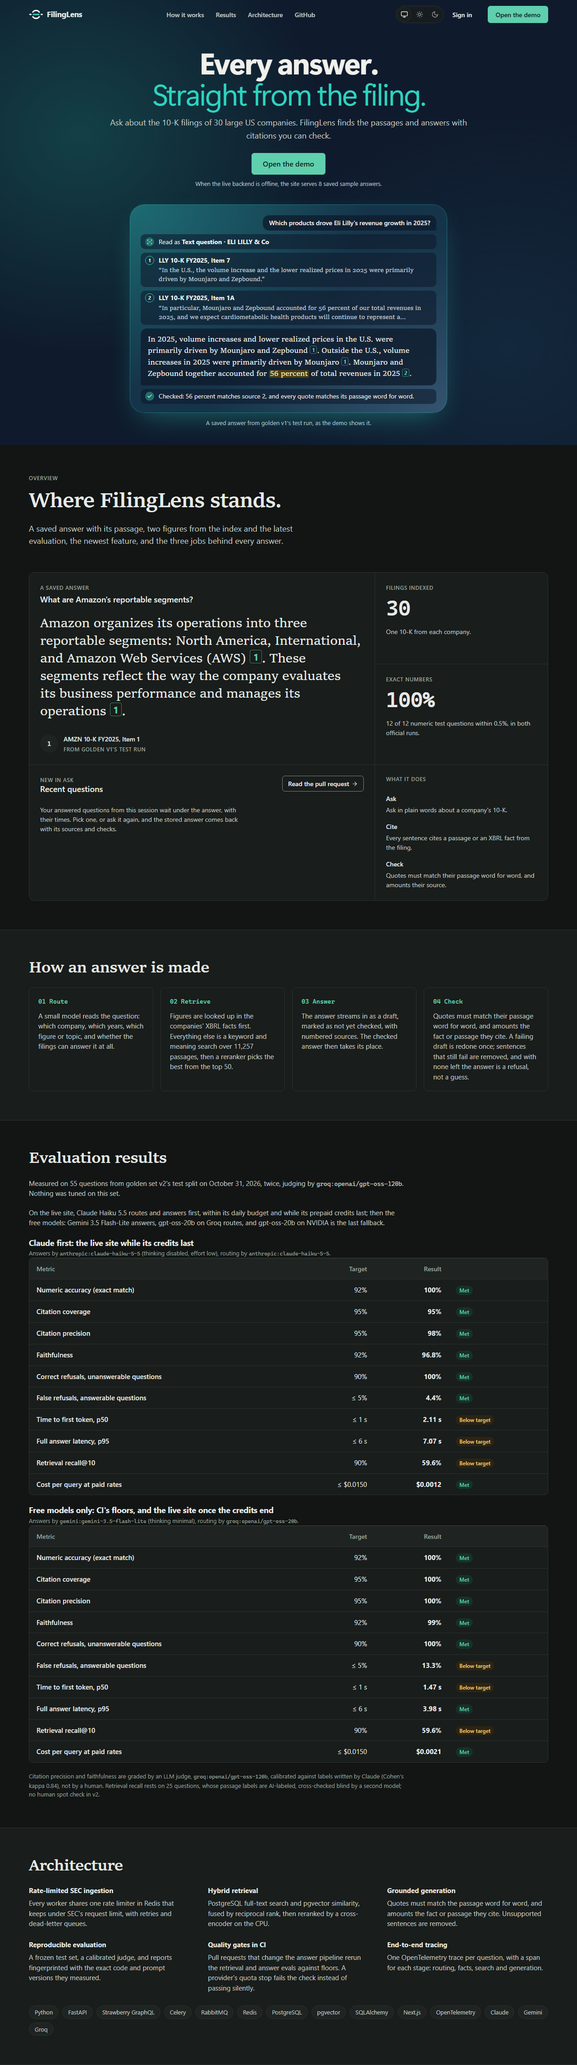
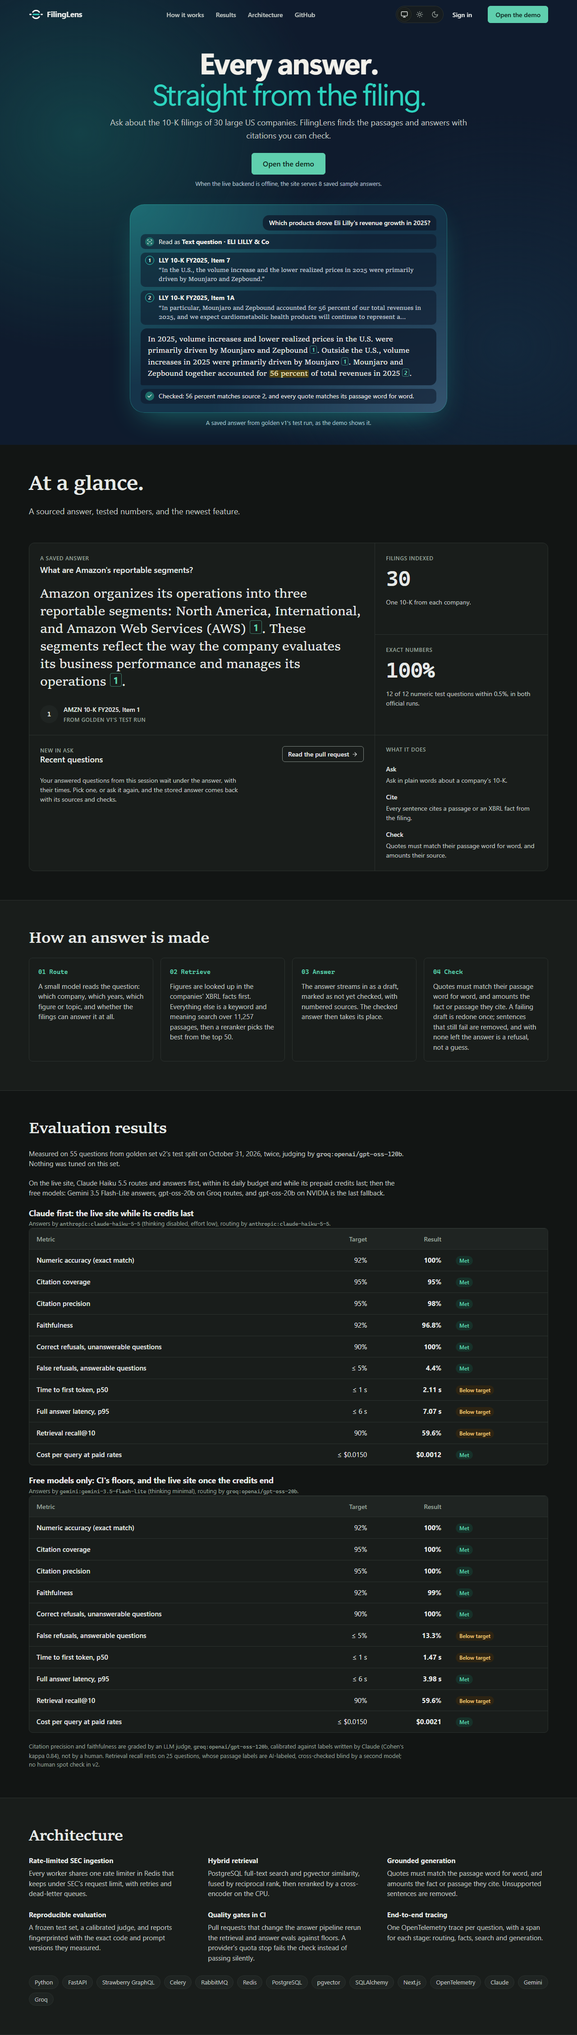
Answers: inline sources list no longer shows; overview: At a glance (#46)

diff --git a/web/e2e/landing.spec.ts b/web/e2e/landing.spec.ts
@@ -166,7 +166,12 @@ test("the hero's scope and story are the demo snapshot's: x12's question, passag
 test("the overview: another saved answer and its passage, two figures from the snapshot and both reports, #42, and the three jobs", async ({ page }) => {
   await page.goto("/");
   const overview = page.locator("section#overview");
-  await expect(overview.getByRole("heading", { level: 2 })).toHaveText("Where FilingLens stands.");
+  await expect(overview.getByRole("heading", { level: 2 })).toHaveText("At a glance.");
+  // The headline and the line under it, with no label above them.
+  await expect(overview.locator(".overview-head > *")).toHaveText([
+    "At a glance.",
+    "A sourced answer, tested numbers, and the newest feature.",
+  ]);
   expect(saved.filing).not.toBe(story.filing);
   await expect(overview).toContainText(saved.question);
   await expect(overview.locator("blockquote .answer-text")).toHaveText(saved.answer.answer);

diff --git a/web/components/overview.tsx b/web/components/overview.tsx
@@ -34,12 +34,8 @@ export function Overview() {
   return (
     <section id="overview" className="overview" aria-labelledby="overview-title">
       <div className="overview-head">
-        <p className="overview-label">Overview</p>
-        <h2 id="overview-title">Where FilingLens stands.</h2>
-        <p>
-          A saved answer with its passage, two figures from the index and the latest evaluation, the newest feature,
-          and the three jobs behind every answer.
-        </p>
+        <h2 id="overview-title">At a glance.</h2>
+        <p>A sourced answer, tested numbers, and the newest feature.</p>
       </div>
 
       <div className="overview-grid">

diff --git a/packages/llm/tests/test_answer.py b/packages/llm/tests/test_answer.py
@@ -138,6 +138,74 @@ def test_a_calculation_is_cited_like_a_fact_and_holds_the_difference() -> None:
     assert ("$25.1 billion", "K1") in [(f.text, f.alias) for f in checked.figures]
 
 
+LOWER = (
+    "Fiscal 2024: 14,405,000,000 USD. Fiscal 2025: 12,056,000,000 USD. Fiscal 2025 is lower by"
+    " 2,349,000,000 USD, 16.31% less than fiscal 2024."
+)
+UNITEDHEALTH = {  # c13 (dev): net income attributable to the parent, fiscal 2025 against 2024
+    "F1": Source("F1", None, "540257", "2025", "12,056,000,000 USD", Decimal(12_056_000_000), "u"),
+    "F2": Source("F2", None, "540203", "2024", "14,405,000,000 USD", Decimal(14_405_000_000), "u"),
+    "K1": Source(
+        "K1", None, None, "Calculated by FilingLens from F2 and F1", LOWER, None, "u",
+        Calculation(("F2", "F1"), Decimal(-2_349_000_000), Decimal("-16.31"), over_time=True),
+    ),
+}  # fmt: skip
+ANSWER = (
+    "UnitedHealth Group's net income attributable to the parent was $12.1 billion in fiscal 2025,"
+    " compared with $14.4 billion in fiscal 2024, a decrease of $2.3 billion or 16.31%"
+)
+LIST = (
+    'Sources: [F1] "12,056,000,000 USD"; [F2] "14,405,000,000 USD"; [K1] "Fiscal 2025 is lower by'
+    ' 2,349,000,000 USD, 16.31% less than fiscal 2024."'
+)
+INLINE = f"{ANSWER} [F1][F2][K1]. {LIST}"  # E5's draft of c13, as Haiku wrote it
+DRAFTS = pytest.mark.parametrize(
+    "draft", [INLINE, f"{ANSWER} [F1][F2][K1].\n{LIST}"], ids=["after the answer", "own line"]
+)
+
+
+@DRAFTS
+def test_a_sources_block_written_inline_is_read_as_the_sources_block(draft: str) -> None:
+    """c13 (dev, E5): the list stayed in the answer as one more sentence, and its amounts passed."""
+    reply = read_reply(draft)
+    assert reply.text == f"{ANSWER} [F1][F2][K1]."
+    assert reply.quotes == {
+        "F1": ["12,056,000,000 USD"],
+        "F2": ["14,405,000,000 USD"],
+        "K1": ["Fiscal 2025 is lower by 2,349,000,000 USD, 16.31% less than fiscal 2024."],
+    }
+    checked = check(reply, UNITEDHEALTH)
+    assert checked.text == f"{ANSWER} [1][2][3]."
+    assert (checked.problems, checked.removed) == ([], 0)
+
+
+@pytest.mark.parametrize(
+    "sentence",
+    [
+        "Sources: products and services, as the filing lists them [C1].",  # no source follows
+        "Services had three such sources: [C1].",  # not where a sentence starts
+    ],
+)
+def test_the_word_sources_in_the_answer_is_no_heading(sentence: str) -> None:
+    reply = read_reply(
+        f"Net sales were $416.2 billion [F1]. {sentence}\n\nSources:\n"
+        '[F1] "416,161,000,000 USD"\n[C1] "Services net sales increased"\n'
+    )
+    assert reply.text == f"Net sales were $416.2 billion [F1]. {sentence}"
+    assert reply.quotes == {"F1": ["416,161,000,000 USD"], "C1": ["Services net sales increased"]}
+
+
+@DRAFTS
+@pytest.mark.parametrize("size", range(1, 40))
+def test_a_stream_never_shows_a_sources_block_written_inline(draft: str, size: int) -> None:
+    """n13 (dev ci, 2026-10-16) at a few characters a chunk: a reply ending in "Sources:" read as
+    the heading, then not once its source followed, so the stream showed text twice."""
+    visible = Visible()
+    shown = [visible.feed(draft[start : start + size]) for start in range(0, len(draft), size)]
+    shown.append(visible.feed(final=True))
+    assert "".join(shown) == f"{ANSWER} [1][2][3]."
+
+
 def test_each_amount_a_kept_sentence_states_comes_with_the_source_that_holds_it() -> None:
     checked = check(read_reply(REPLY), SOURCES)
     assert [(f.text, f.alias, f.number) for f in checked.figures] == [

diff --git a/packages/llm/src/filinglens_llm/answer.py b/packages/llm/src/filinglens_llm/answer.py
@@ -30,7 +30,13 @@ from filinglens_llm.validate import (
 
 INSUFFICIENT = "INSUFFICIENT_EVIDENCE"
 MAX_TOKENS = 1024  # answers and regenerations: short, fast, cheap, no runaway (docs/context.md)
-SOURCES_HEADING = re.compile(r"^[ \t*#_]*sources[ \t*_]*:?[ \t*_]*$", re.IGNORECASE | re.MULTILINE)
+# The heading alone on its line, or with its first source after it (c13: "[K1]. Sources: [F1]").
+SOURCES_HEADING = re.compile(
+    r"^[ \t*#_]*sources[ \t*_]*:?[ \t*_]*$"
+    r"|(?:^|(?<=[.!?]))[ \t*_]*sources[ \t*_]*:[ \t*_]*(?=\[\s*[CFK]\d+\s*\])",
+    re.IGNORECASE | re.MULTILINE,
+)
+ENTRY_BREAK = re.compile(r"[ \t]*[;,][ \t]*(?=\[\s*[CFK]\d+\s*\])")  # sources on one line
 SOURCE_LINE = re.compile(
     r"^[ \t*-]*\[\s*(?P<alias>[CFK]\d+)\s*\][ \t:|\-]*(?P<quote>.*?)[ \t]*$", re.MULTILINE
 )
@@ -87,8 +93,9 @@ class Reply:
 def read_reply(reply: str) -> Reply:
     heading = SOURCES_HEADING.search(reply)
     text = (reply[: heading.start()] if heading else reply).strip()
+    block = ENTRY_BREAK.sub("\n", reply[heading.end() :]) if heading else ""
     quotes: dict[str, list[str]] = {}
-    for line in SOURCE_LINE.finditer(reply[heading.end() :] if heading else ""):
+    for line in SOURCE_LINE.finditer(block):
         quote = OWN_MARKER.sub("", line["quote"].strip())
         quotes.setdefault(line["alias"], []).append(quote.strip().strip(QUOTE_MARKS))
     return Reply(text, quotes, text.startswith(INSUFFICIENT))
@@ -117,7 +124,8 @@ class Visible:
     def feed(self, text: str = "", *, final: bool = False) -> str:
         self._reply += text
         heading = SOURCES_HEADING.search(self._reply)
-        if heading is not None:
+        # One that ends the text so far may go on as words or a source on its line (n13).
+        if heading is not None and (final or heading.end() < len(self._reply)):
             end = heading.start()
         else:
             end = len(self._reply) if final else max(0, len(self._reply) - HOLD)

diff --git a/docs/activity-log.md b/docs/activity-log.md
@@ -15,6 +15,39 @@ Chronological record of significant development activity, newest first. Skip tri
 
 ## Entries
 
+### 2026-11-02: Inline Sources blocks read as the Sources block, and the overview's new head (uncommitted, branch `inline-sources`)
+
+- Changes, on `inline-sources` from main at 99992d9 (#45 merged); the user asked for one PR, tests first:
+  - **Inline Sources** (`packages/llm/src/filinglens_llm/answer.py`), todo.md's weakness from E5. c13's draft wrote `... [F1][F2][K1]. Sources: [F1] "..."; [F2] "..."; [K1] "..."`. `SOURCES_HEADING` wanted the heading alone on its line, so the list stayed in the answer as one more sentence, and its amounts passed validation.
+    - The user allowed strip or refuse. It is now read as the Sources block (memory.md, why): `SOURCES_HEADING` also takes a heading whose first source follows on its line, after a sentence's end or at a line's start, and `ENTRY_BREAK` splits sources on one line at ";" or "," before a source id. The list leaves the answer, its quotes count, and the stream stops before it.
+    - `Visible` now takes a heading that ends the text received so far as one only once its line goes on (found by the replay, below).
+  - **Overview** (`web/components/overview.tsx`): the head is the user's final copy, "At a glance." over "A sourced answer, tested numbers, and the newest feature."; the "Overview" label is gone. Their earlier draft, "Proof, not promises." over "A real answer with its source, and the numbers behind it.", was built first (Events).
+- Files: `packages/llm/src/filinglens_llm/answer.py`, `packages/llm/tests/test_answer.py`, `web/components/overview.tsx`, `web/e2e/landing.spec.ts`, `docs/screenshots/ui/landing-{light,dark,phone}.png`, docs (context, design, memory, todo).
+- Validation:
+  - **Tests first, Python.** c13's draft as Haiku wrote it, and the same list starting its own line: `read_reply` keeps the answer and reads the three quotes, `check` keeps the answer without the list and finds no problem, and the stream at 1 to 39 characters a chunk shows the answer only.
+    - Red: 41 failed (the list stayed in the text and in the stream). Green after the pattern change.
+    - The own-line draft then joined the stream test: red at 1 to 5 characters a chunk (5 failed), green after the `Visible` change.
+    - Two rows the heading must leave alone, at its edges: "Sources: products and services, as the filing lists them [C1]." (no source follows) and "Services had three such sources: [C1]." (not where a sentence starts).
+    - Four mutants of the new patterns (no sentence-start guard, no source after the colon, no line-start form, entries not split) each fail a test.
+  - **Tests first, web.** The overview test expects the new head and no label: red on a build of the old page (1 failed, 11 passed), then 12 passed.
+  - **Offline replay** (scratch script, no model call): main's `read_reply` and stream (2, 7 and 64 characters a chunk) against this branch's, over every answer draft the reports list: 875, all in the local reply cache (440 Haiku, 401 Gemini, 34 NVIDIA).
+    - 3 changed, each only losing its inline list: c13 and n14 from E5 (n14: `... $189.0 billion [F1]. Sources: [F1] "189,031,000,000 USD"`), and n13 from the 2026-10-16 dev ci run's NVIDIA fallback (`... fiscal 2025. [F1]`, then `Sources: [F1] “121,939,000,000 USD”` on its own line). Their saved answers showed the list ("Sources: [1] ..."); validation finds no problem in them before or after.
+    - The other 872 keep their text, quotes and stream. No Gemini draft changes.
+    - A second check: on this branch every draft's stream joins up to its reply text at 1 to 39 characters a chunk. On main, n13's did not, at 6 sizes.
+  - Python: `make lint` clean, `make typecheck` 0 errors, `make test` 703 passed (621 before; 82 new cases).
+  - Web: `npm run typecheck` clean, `npm test` 114, `npm run build`, `npx playwright test` 107 passed (bundled shell). `npx playwright test -c playwright.screens.config.ts -g landing` rewrote the three landing shots (4 passed, axe included); no other shot changed.
+- Eval check (memory.md, the 2026-10-18 rule): `packages/llm/src` is an eval input, so CI's eval runs. No prompt changed, so every router and answer key is main's. A regeneration's key holds the problems, which change only for a draft with an inline list, and none of the local cache's 401 Gemini drafts has one. Expected: no model call. CI's own cache cannot be read here; a CI-only draft with an inline list whose problems change would take one Gemini regeneration (free tier).
+- Events, in order:
+  - GateGuard refused the session's first Bash call and the first touch of each file, the two scratch scripts included, until their facts were stated; each passed on retry.
+  - `python` is not on Git Bash's PATH ("Python was not found"); `uv run python` worked.
+  - The replay found n14 and n13 besides c13, and the stream fault. On main, a reply ending in "Sources:" was read as the heading, then not once its source followed on that line, so the stream showed "...2025. [1]5. [1]" (n13, 7 characters a chunk). The pattern change left it at 1 to 3 characters a chunk; the `Visible` change, test first, fixed it.
+  - The replay's second run sent its output to a scratchpad file through a shell redirect, against AGENTS.md's rule on writing files; later runs printed to the terminal.
+  - The user then replaced the draft head with the final copy. The overview test changed first, red on the draft's build (1 failed, 11 passed), then the component. After it: `npm run typecheck` clean, `npm run build`, and the three landing shots rewritten again (4 passed).
+  - The first full `npx playwright test` after the final copy had 1 failure on a `toContainText` check and 104 passed. My output filter cut the failing test's name, and the next run cleared its results. Three more full runs passed 107 each. Cause not confirmed; it did not recur.
+- Outstanding:
+  - (user) Confirm the `eval-calls-*` Actions cache, then ship.
+  - The saved reports (E5's and the 2026-10-16 dev ci run's) keep the answers they recorded, list included; rerunning them would need live judge calls.
+
 ### 2026-11-02: Landing round 2: the overview panel and four hero fixes (uncommitted, branch `landing-round-2`)
 
 - Changes, on `landing-round-2` from main at 6d273ef (#43 merged):

diff --git a/docs/todo.md b/docs/todo.md
@@ -6,14 +6,21 @@ Each step maps to a Claude Code prompt in the design doc. Done when the check af
 
 ## Pending
 
-- [ ] (user, 2026-11-02) **Landing, round 2: the features panel, and four hero fixes**, on branch `landing-round-2` from main at 6d273ef (uncommitted). Header and hero unchanged apart from the fixes.
+- [ ] (user, 2026-11-02) **Inline Sources blocks, and the overview's head**, one PR, on branch `inline-sources` from main at 99992d9 (uncommitted).
+  - [x] Tests first, red then green: c13's draft from E5 with its Sources block on the answer's line, and the same block starting its own line: the list leaves the answer, its three quotes are read, and the stream never shows it (1 to 39 characters a chunk); two rows the heading must leave alone; the overview's new head with no label.
+  - [x] Validation reads such a block as the Sources block (`answer.py`), and the stream waits on a heading that ends the text received so far.
+  - [x] Offline replay, no model call: 3 of the 875 cached drafts change (c13 and n14 from E5, n13 from 2026-10-16's dev ci run), each only losing its inline list; the other 872 keep their text, quotes and stream.
+  - [x] Overview head, the user's final copy: "At a glance.", then "A sourced answer, tested numbers, and the newest feature.", with no label (it replaced their earlier draft, "Proof, not promises.").
+  - [x] Checks: `make lint` clean, `make typecheck` 0, `make test` 703; web typecheck, `npm test` 114, build, Playwright 107; the three landing screens.
+  - [ ] (user) Confirm the `eval-calls-*` Actions cache, then ship. CI's eval runs, since `packages/llm/src` changed.
+- [x] (user, 2026-11-02) **Landing, round 2: the features panel, and four hero fixes**, merged as #45 (99992d9, git log). Built on branch `landing-round-2` from main at 6d273ef. Header and hero unchanged apart from the fixes.
   - [x] Tests first (`e2e/landing.spec.ts`), red against the current build (3 failed, 9 passed), then green (12): the new subtitle, the hero's "Open the demo" and its offline note (also on the offline server), the panel's answer and citation, its two figures against the snapshot and both official reports, the Recent questions link, and Ask, Cite and Check.
   - [x] Features panel after Hirael's feature-10 (MIT): rebuilt in FilingLens's markup and CSS tokens in `web/components/overview.tsx`, with no Tailwind, shadcn or new package (as round 1). "Where FilingLens stands."; x04's saved answer (Amazon, not the hero's Eli Lilly) with AMZN 10-K FY2025, Item 1; filings indexed (30) and exact numbers (100%, 12 of 12), each with its source in a comment; Recent questions (#42); Ask, Cite and Check.
   - [x] How it works (Ask, Find the passages, Answer with citations): left out, since the hero's subtitle and story already show that flow. `_tmp/21st/steps-5.png` does not exist.
   - [x] Hero fixes: "Open the demo" under the subtitle; the subtitle the user wrote; the offline note back; the still's two Prompt Bond heads removed.
   - [x] `docs/third-party.md`: feature-10's MIT notice.
   - [x] Checks: `make lint` clean, `make typecheck` 0, `make test` 621; web typecheck, `npm test` 114, build, Playwright 107 (bundled shell) and 107 (Edge on the GPU); the three landing screens; screenshots at 1280, 1440, 1920 and 390 px, light and dark, in `H:\Projects\projects\_tmp\fl-landing-2`.
-  - [ ] (user) ship.
+  - [x] (user) ship: merged as #45.
 - [x] (user, 2026-11-02) **Landing, round 1: header, hero and logo**, merged with its CI fix as #43 (6d273ef, git log). Built on branch `landing-round-1` from main at 58baddd. Round 2 (features, how it works) comes later; those sections stay as they are.
   - [x] Baseline first: the landing's JavaScript and load time on the current main, desktop and phone profiles.
   - [x] Logo: variant #6 redrawn as an SVG (two arcs, a teal bar inside the lens, ink pills outside, equal gaps, one stroke width, round ends); one-colour, light and dark versions; in every header, the sign-in and error pages, the favicon (read at 16 and 32 px) and the app icon.
@@ -288,7 +295,7 @@ Each step maps to a Claude Code prompt in the design doc. Done when the check af
       - [x] No dev re-parse (PR 6, the user's go).
     - [x] Checks: lint, typecheck, unit tests, integration tests, web typecheck, unit tests and e2e (activity-log.md).
     - [ ] (user) The comparison drafts' second sentence (E5: 8 of 10 regenerated, E2 2): a prompt line "state the difference in the same sentence as both figures", which changes the answer prompt and needs a measured run (about $0.04 of credits, about 50K judge tokens), or leave it (memory.md).
-    - [ ] Weakness, its own PR (found in E5): a Sources block written inline ("... [K1]. Sources: [F1] ...") stays in the answer text and passes validation (c13).
+    - [x] Weakness, its own PR (found in E5): a Sources block written inline ("... [K1]. Sources: [F1] ...") stays in the answer text and passes validation (c13). Fixed on `inline-sources` (2026-11-02): read as the Sources block. The replay found it in n14 (E5) and n13 (2026-10-16) too.
     - [x] (user) ship as one PR: merged as #36.
     - [ ] (user, this PC) Application Control blocks the venv's `python.exe` since 2026-10-27, so `make` targets that run Python fail here (memory.md, the workaround). Later the same day (PR 6's session) it ran again: `uv run python`, `make lint`, `make typecheck` and `make test` worked with no workaround. Cause not confirmed; kept as a watch. 2026-10-28 (user): Windows Smart App Control is on. It blocks the unsigned launchers in `.venv\Scripts` (Triage Copilot's `alembic.exe` was blocked), while the venv's `python.exe` runs. Fixed at the source: every tool starts as `uv run python -m <tool>`, and only `docs/migrations.md` still had bare commands (memory.md). The watch stays for `python.exe` itself.
   - [ ] PR 6 `golden-v2` (branch `golden-v2` from main at a2b71ec, 2026-10-27, uncommitted): re-parse dev (the user's go), v2's pools and labels (estimate first), the user's spot check, freeze, corpus-v2 (the user uploads), E8 and v2's dev floors. First part done on 2026-10-27, stopped before the spot check as the user asked (activity-log.md):

diff --git a/docs/context.md b/docs/context.md
@@ -223,6 +223,9 @@ Without it, waiting does not help: AI is switched off, or the last model refused
   - **Evals:** the judge reads a calculation under "Calculated by FilingLens from sources 1 and 2"; coverage counts it like a fact.
   - **Measured** (E5, Claude Haiku, dev): citation precision 1.000, coverage 1.000, faithfulness 0.989, false refusal 0.019 (x15), correct refusal 1.000; n24 answers. Comparison drafts regenerated more (8 of 10, E2 2): the difference went into a second sentence without the two figures.
   - **Parser:** Items 7 and 8 that only point to a separate financial section (shorter than 2,000 characters) take that section's own MD&A and statements headings inside a later item; the pointers keep no range, market risk inside MD&A stays in 7, and 7A stays as it is. `python -m filinglens_ingest.reparse ACCESSION...` parses filings again from the SEC cache (no SEC request), replaces their sections and chunks and queues embed.
+- Inline Sources and the overview's head (branch `inline-sources`, 2026-11-02, uncommitted; activity-log.md):
+  - **Reply format:** a Sources heading whose first source follows on its line (`... [K1]. Sources: [F1] "..."; [F2] "..."`, or `Sources: [F1] ...` starting a line) is the Sources block: the list leaves the answer and its quotes count; sources on one line split at ";" or "," before a source id. The stream stops before it, and takes a heading that ends the text received so far as one only once its line goes on.
+  - **Landing:** the overview's head is "At a glance." over "A sourced answer, tested numbers, and the newest feature.", with no label.
 - Worker: Celery app (late acks, reject on worker lost, prefetch 1, time limits, publisher confirms). It consumes `discover`, `fetch`, `fetch.retry` and `reembed`, and, when ready, declares the dead-letter queues and clears a recorded SEC refusal. `/healthz` and `/readyz` listen on 127.0.0.1:8001 inside the container; readiness pings the worker through RabbitMQ.
 - Data: tables `companies` (CIK key, ticker, name, sector), `filings` (accession number unique, `filing_status` enum discovered, fetched, parsed (sections and chunks stored), embedded, indexed, failed; fiscal year, period and `fiscal_source`; `missing_items`), `sections` (item, title, char range, text), `chunks` (id = sha256 of accession, item and offset; generated English `tsv`; `embedding_v2` vector(768) and its model), `financial_facts` (numeric value as published, form, `filed_on`; unique per CIK, taxonomy, concept, unit, period and filing), `ingest_jobs`, `ingest_job_companies` (discovery status per CIK), `ingest_job_items`, `dead_letters` (one per task id), `eval_runs`. Indexes: HNSW (cosine) on the embedding column, GIN on `tsv`, `(created_at, id)` keyset indexes on the ingest, dead-letter and eval tables. An idempotent seed of 6 companies.
 - Migrations: `make migrate` upgrades to head, `make migrate REV=0008` stops at a revision (the dev path). The chain runs 0001-0003, 0007, 0008, then the swap 0004-0006, which stays last until the live swap. Every revision runs in its own transaction with `lock_timeout` 5 s (set in `env.py`); indexes are built with `CREATE INDEX CONCURRENTLY` in autocommit blocks. 0004-0006 are the embedding swap (expand, HNSW index, contract), and `docs/migrations.md` is its runbook and the dev path. 0006 refuses to run while any chunk lacks `embedding_v2`.
@@ -366,7 +369,7 @@ The egress proxy, the first item after go-live, merged as #32 (12502f3); it chan
 
 Recent questions (2026-11-01): the answer-path logs that quoted draft sentences and the router's tickers were fixed first, merged as #41 (0bfb840). The feature itself was built on `recent-questions` from main at 0bfb840 (uncommitted), with the corpus-v2 production runbook and Grafana's first-start fix (deploy.md).
 
-Recent questions merged as #42 (58baddd), and landing round 1 (header, hero, logo) with its CI fix as #43 (6d273ef). Landing round 2 (the overview after Hirael's feature-10, and four hero fixes) was built on `landing-round-2` from main at 6d273ef on 2026-11-02 (uncommitted).
+Recent questions merged as #42 (58baddd), and landing round 1 (header, hero, logo) with its CI fix as #43 (6d273ef). Landing round 2 (the overview after Hirael's feature-10, and four hero fixes) merged as #45 (99992d9). The inline Sources fix and the overview's new head were built on `inline-sources` from main at 99992d9 on 2026-11-02 (uncommitted).
 
 ## Known Limitations
 

diff --git a/docs/memory.md b/docs/memory.md
@@ -1008,6 +1008,16 @@ From landing round 2 (2026-11-02, branch `landing-round-2` from main at 6d273ef,
   - The still's two heads were removed (the CSS `::before` and `::after` that drew Prompt Bond's two organisms at the card's top corners). The moving story's membrane keeps its two eyes: they belong to Prompt Bond's engine, and the user named only the circles.
 - 2026-11-02: Discrepancy fixed: the README still said the landing's "Try the live demo" signs in and opens Ask. Round 1 had removed that button; the README now names "Open the demo" and Sign in.
 
+From the inline Sources fix (2026-11-02, branch `inline-sources` from main at 99992d9, uncommitted; the user: "FL, one PR, tests first"):
+
+- 2026-11-02: The inline Sources block (todo.md, found in E5's c13) is read as the Sources block, not refused; the user allowed either.
+  - Why: the list holds the quotes, so reading it keeps the answer and costs no regeneration. A refusal would send every such draft back, and a second inline draft would lose each sentence citing a passage, for want of its quote.
+  - The rule: a "Sources:" heading counts when its first source follows on the same line, after a sentence's end (c13: `... [K1]. Sources: [F1] ...`) or at a line's start (n13). Sources on one line split at ";" or "," before a source id.
+  - Cost if wrong: an answer sentence that begins "Sources:" with a source id right after it would be cut there. No cached draft has one.
+- 2026-11-02: The weakness was wider than todo.md said. The offline replay (main against this branch over all 875 cached drafts, no model call) changed c13, n14 (E5, Haiku) and n13 (2026-10-16 dev ci, the NVIDIA fallback). Each saved answer showed its list as "Sources: [1] ...". The other 872 kept their text, quotes and stream.
+- 2026-11-02: Pitfall, found by the replay: the stream (`Visible`) read a "Sources:" that ended the text received so far as the heading, since the line-alone pattern's `$` matches at the end of the text. It dropped the heading once a source followed on that line, then showed text twice: "...2025. [1]5. [1]" (n13 at 7 characters a chunk; on main at 6 sizes from 1 to 11). Now such a heading counts only once its line goes on. Check a stream at many chunk sizes, as the `test_a_stream_*` tests do.
+- 2026-11-02: The overview's head is the user's final copy: "At a glance.", then "A sourced answer, tested numbers, and the newest feature.", with no label. Their earlier draft, "Proof, not promises." over "A real answer with its source, and the numbers behind it.", was built first the same day and replaced.
+
 ## Preferences and Instructions
 
 - 2026-10-14: The three portfolio projects run in parallel Claude Code sessions on one PC, sharing Docker. Each project has its own port range and compose project name; never prune or remove another project's Docker resources (user setup).

diff --git a/docs/design.md b/docs/design.md
@@ -129,7 +129,7 @@ The user's round 1; round 2 (the features and how it works) comes later, and tho
 The user's round 2. The header is unchanged; the hero changed only as the user's four review fixes asked.
 
 - **Overview** (`#overview`, right under the hero, on the paper band), after Hirael's feature-10 (MIT; `docs/third-party.md`), in FilingLens's tokens and markup:
-  - Head: a small "Overview" label, the serif headline "Where FilingLens stands." (36 px on a phone, 48 px from 40rem, line height 1.04), and one line on what the panel holds.
+  - Head: the serif headline "At a glance." (36 px on a phone, 48 px from 40rem, line height 1.04) and one line under it, "A sourced answer, tested numbers, and the newest feature." (the user's final copy, 2026-11-02; round 2 had a small "Overview" label over "Where FilingLens stands.").
   - One white sheet split by 1 px hairlines in `--rule`, with a 12 px corner: six columns from 64rem, otherwise full width, with the two figures side by side.
   - The answer (4 columns, 2 rows): x04 from golden v1's test run, "What are Amazon's reportable segments?", its answer in serif (24 px, 30 px from 40rem) with its citation boxes, and under it the source in place of the person: the citation's number in a grey circle, "AMZN 10-K FY2025, Item 1" (form, year and item) and "From golden v1's test run". No name, no quote from a person.
   - Two figures (2 columns each): "Filings indexed", 30 (the snapshot's filings, one per company); "Exact numbers", 100% (numeric exact match, 12 of 12 within 0.5%, the same in both official runs of 2026-10-31). Mono, 36 px, 48 px from 40rem. "Numeric accuracy", the results table's name, wrapped at 390 px and put its value out of line with the other figure.
